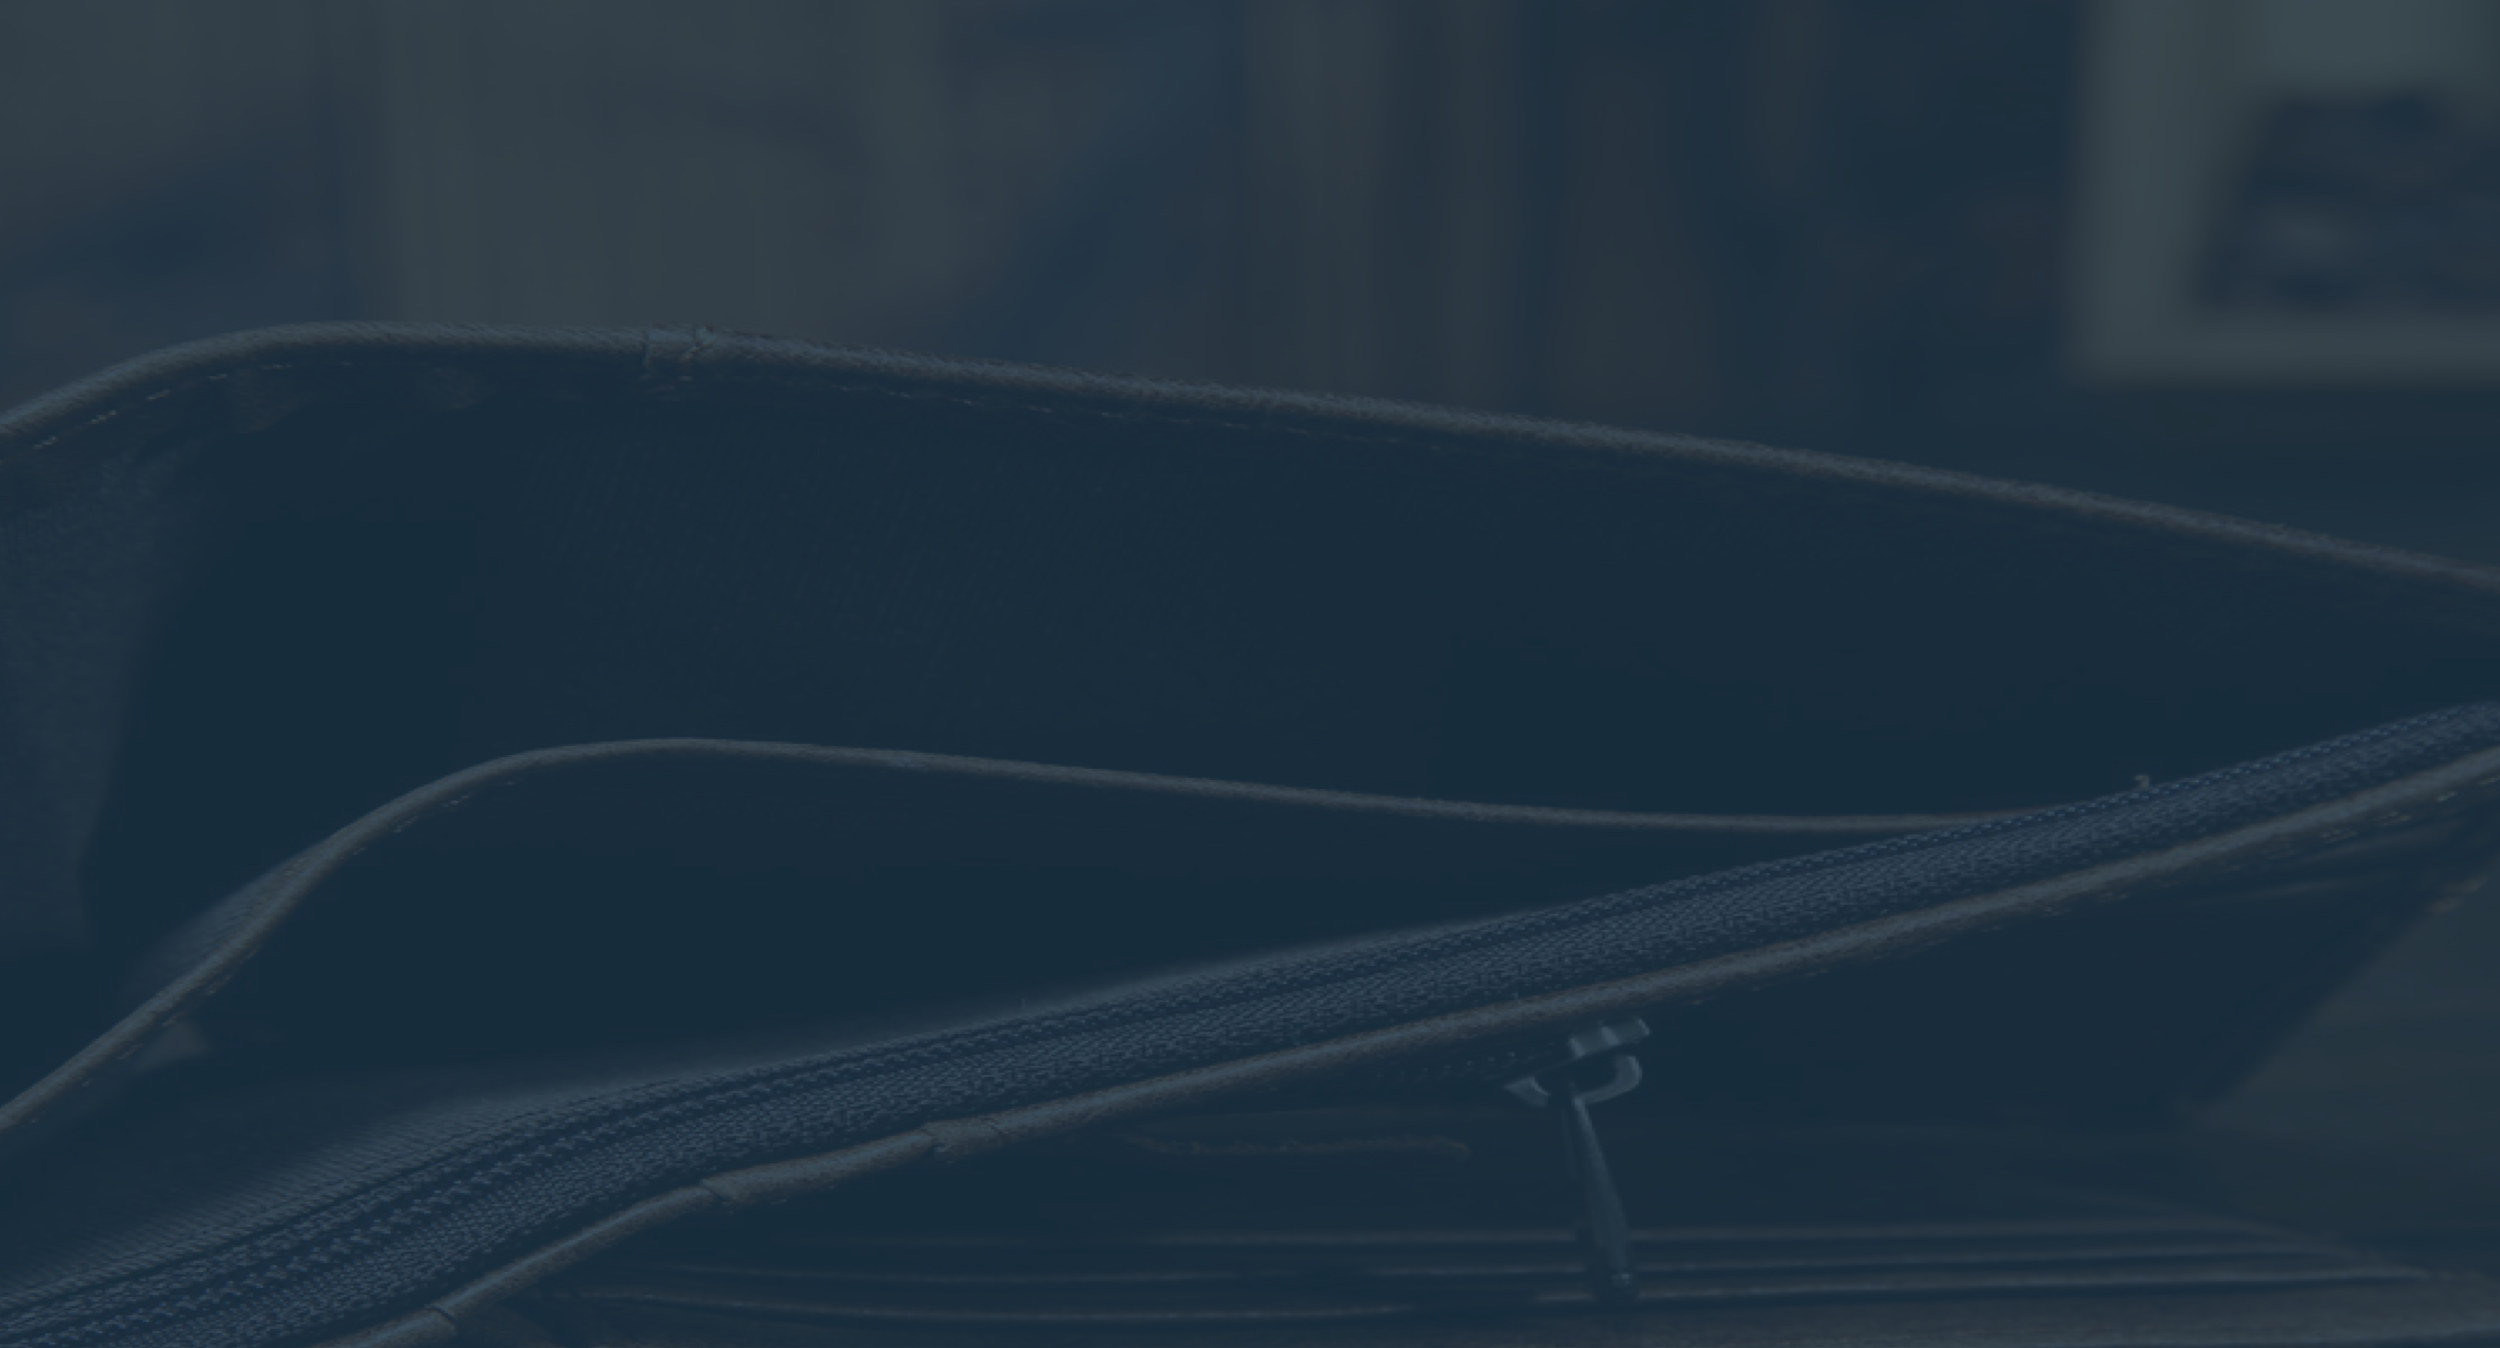
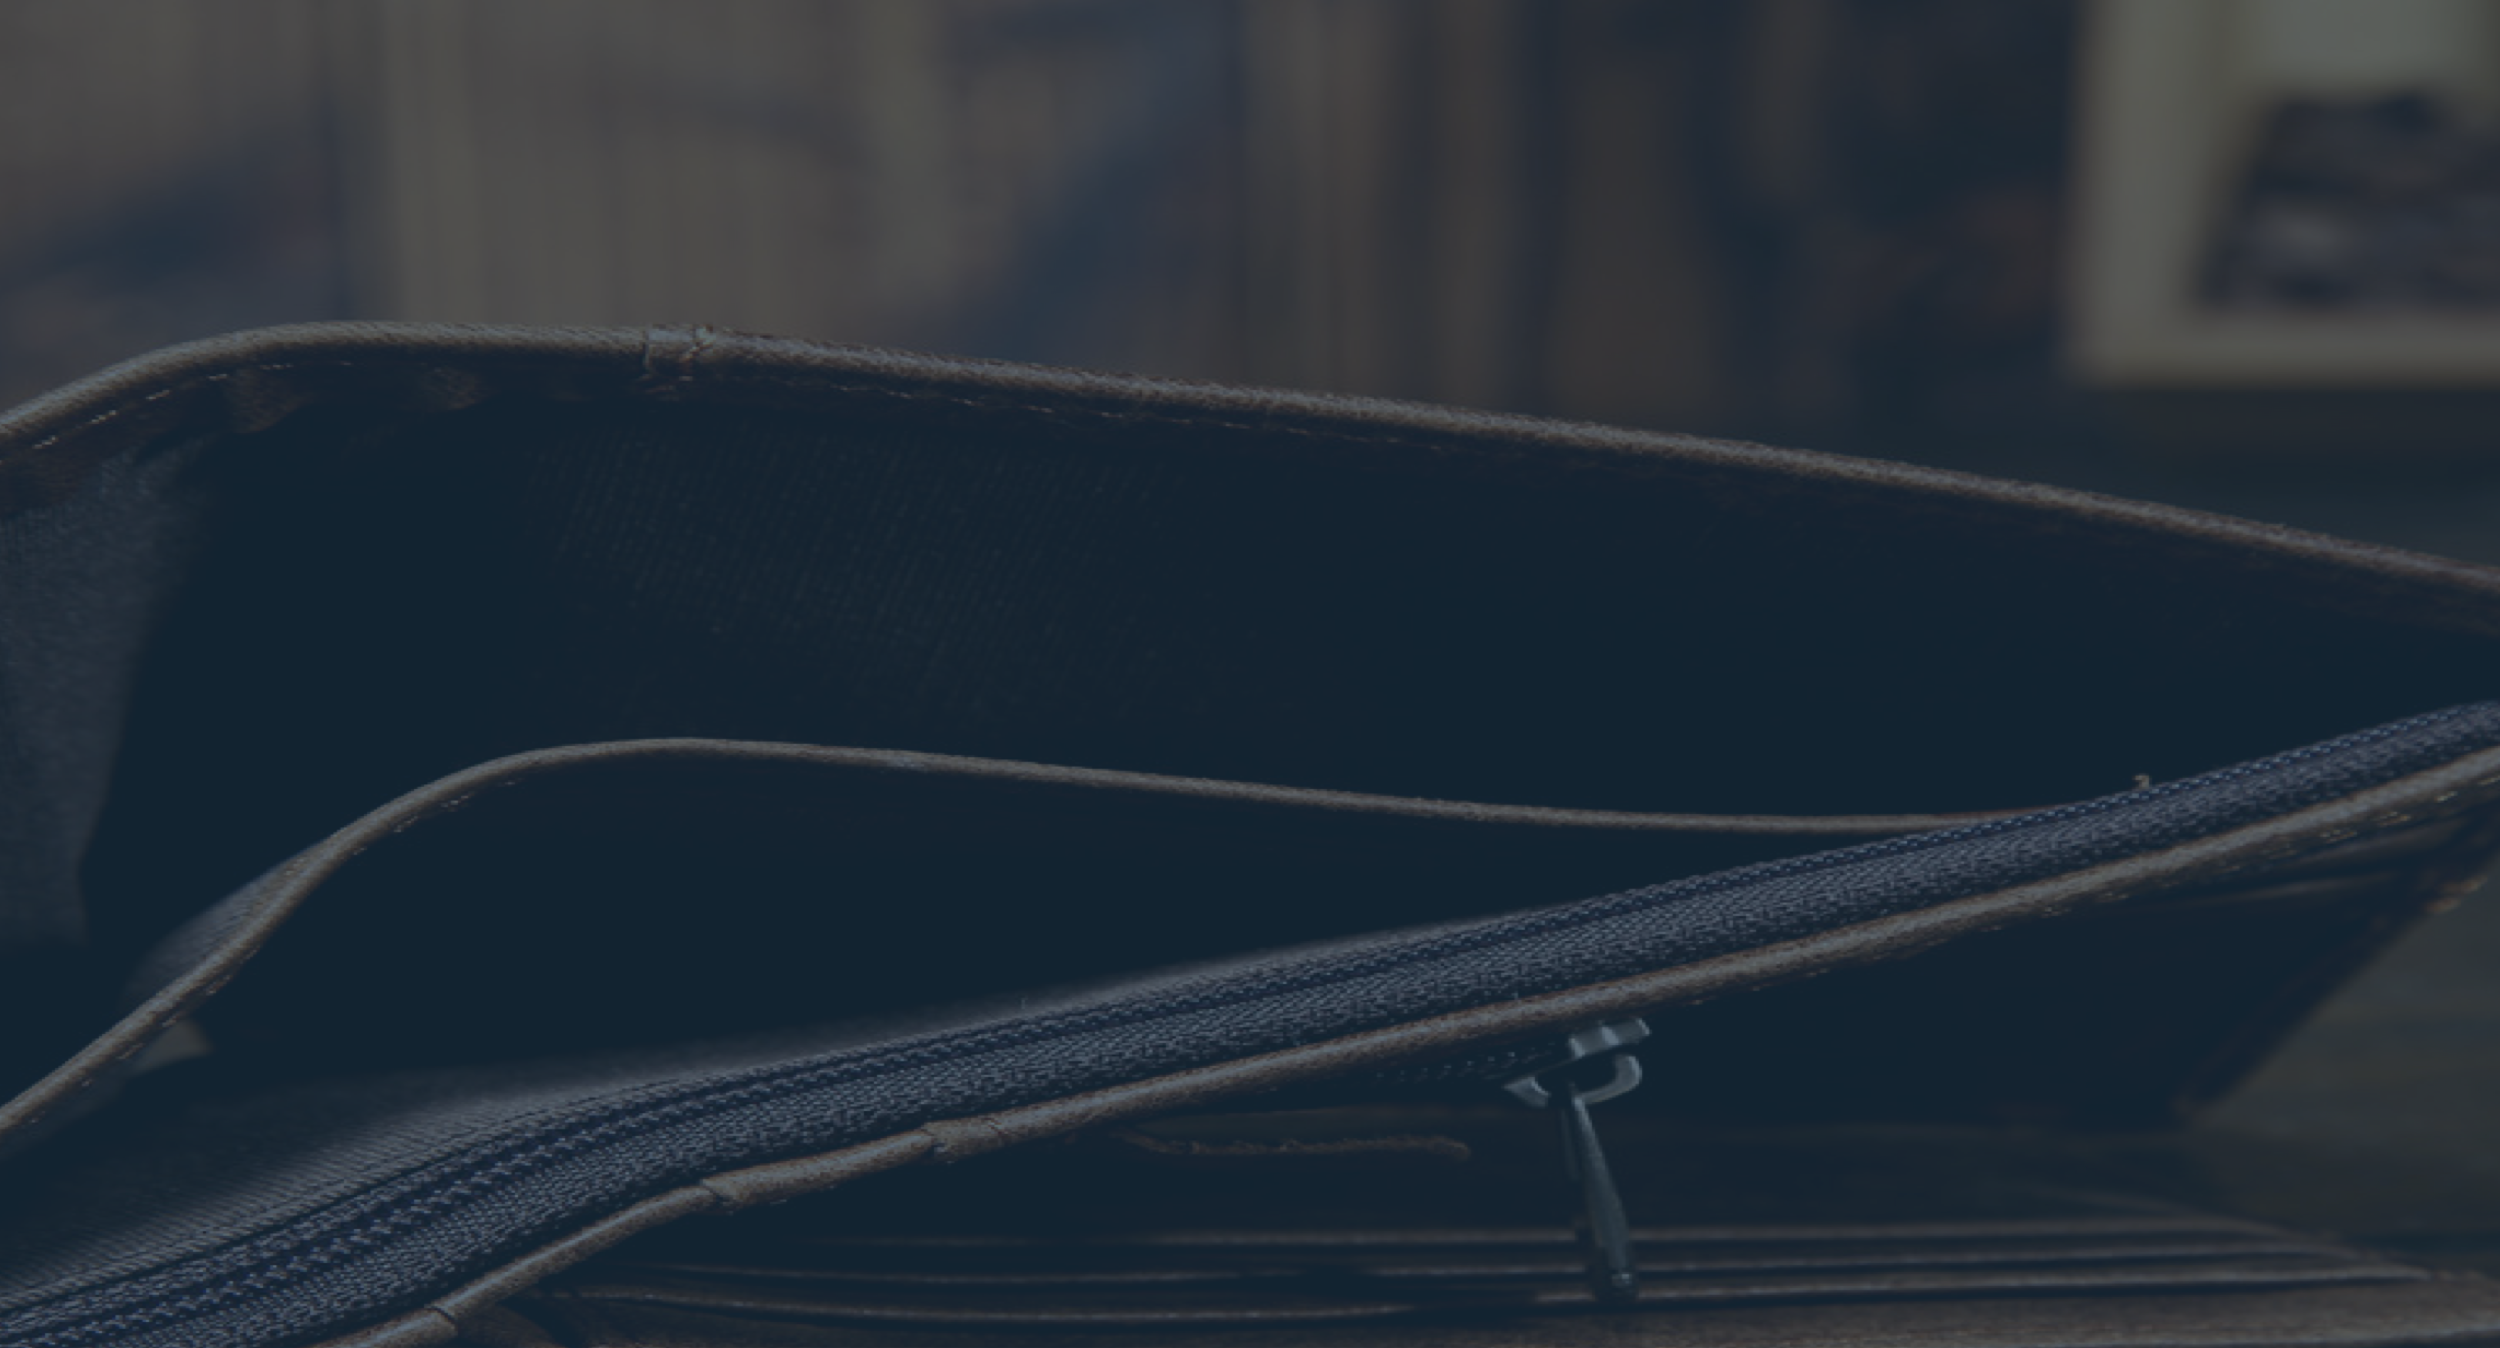
home updates
- background's project feature pic changed
- add new cat. : eductation
- new assets

diff --git a/Stylesheets/General.css b/Stylesheets/General.css
@@ -10,7 +10,7 @@
 html {
     font-family: 'Montserrat', sans-serif;
     font-weight: 400;
-    min-width: 900px;
+    min-width: 950px;
     min-height: 460px;
     color: var(--blue_dark);
 }
@@ -24,11 +24,15 @@ body, html {
 .row {
     display: flex;
     flex-direction: row;
+
+    justify-content: space-evenly;
+    align-items: center;
 }
 
 .column {
     display: flex;
     flex-direction: column;
+    align-items: center;
 }
 
 .h1 { height: 100%; }
@@ -64,6 +68,9 @@ body, html {
 .extra-bold { font-weight: 800; }
 .black { font-weight: 900; }
 
+.italic {font-style: italic; }
+.underlined { text-decoration: underline; }
+
 .tSize1 { font-size: 1rem; }
 .tSize2 { font-size: 1.2rem; }
 .tSize3 { font-size: 1.4rem; }
@@ -88,3 +95,18 @@ body, html {
 .no_margin_right { margin-right: 0; }
 
 .rounded_image { border-radius: 50%; }
+
+
+.selection_type_1 {
+    border: rgba(0,0,0,0) 1px solid;
+    cursor: pointer;
+
+    transition: border 0.5s, background-color 0.5s;
+}
+
+.selection_type_1:hover {
+    background-color: rgba(0,0,0,0.4);
+    border: var(--white) 1px solid;
+}
+
+.pre_tab { margin-left: 10px; }

diff --git a/Stylesheets/Index.css b/Stylesheets/Index.css
@@ -15,7 +15,7 @@ section a {
 
 #text_wrapper {
     text-align: center;
-    margin-bottom: 30px;
+    margin-bottom: 50px;
 }
 
 #text_wrapper p {
@@ -35,9 +35,19 @@ section a {
     letter-spacing: 0.9em;
 }
 
+#text_education {
+    top: 20%;
+    left: 15%;
+
+    color: var(--white);
+    letter-spacing: 0.9em;
+
+    text-shadow: 1px 3px 7px rgba(0,0,0,0.5);
+}
+
 #text_project {
     top: 25%;
-    right: 10%;
+    left: 60%;
 
     color: var(--white);
     text-align: end;
@@ -73,14 +83,8 @@ section a {
     align-items: center;
     justify-content: center;
     margin-left: 25%;
-
-    border: rgba(0,0,0,0) 1px solid;
-    cursor: pointer;
-
-    transition: border 0.5s, background-color 0.5s;
 }
 
-#wrapper_article:hover {
-    background-color: rgba(0,0,0,0.3);
-    border: var(--white) 1px solid;
-}
+#articles_wrapper_education {
+    bottom: 3%;
+ }

diff --git a/Web/Index.php b/Web/Index.php
@@ -74,16 +74,16 @@
                 </svg>
             </div>
             <article id="last_experience" class="w1 absolute">
-                <div id="wrapper_article" class="row w6 h1">
+                <div id="wrapper_article" class="row w6 h1 selection_type_1">
                     <img src="../Assets/Images/im2.png" alt="pic" height="80%" class="contain">
-                    <div id="text_kuantom">
+                    <aside id="text_kuantom">
                         <h1 class="semi-bold tSize2 white no_margin_top">Intern <span class="thin">as</span> Back-end developer</h1>
-                        <p class="thin white">
+                        <p class="thin white no_margin_down">
                             CTO’s assistant<br>
                             - Web developpement HTML CSS JS<br>
                             - Back and Front-end Framworks <span class="bold">…</span>
                         </p>
-                    </div>
+                    </aside>
                 </div>
             </article>
         </section>
@@ -96,6 +96,48 @@
                     Projects
                 </p>
             </div>
+        </section>
+
+        <section id="forth_section" class="column vh2 relative">
+            <a href="#" class="h1 w1 absolute"></a>
+            <img src="../Assets/Images/img4.png" alt="BG_pic" class="h1 cover">
+            <div id="text_education" class="absolute">
+                <p id="title_education" class="tSize6 no_margin bold">
+                    Education
+                </p>
+            </div>
+
+            <div id="articles_wrapper_education" class="row w3 h8 absolute">
+                <article id="ece_feature" class="w6 h3">
+                    <div id="wrapper" class="row w1 h1 selection_type_1">
+                        <img src="../Assets/Images/EceLogo.png" alt="pic" height="80%" class="contain">
+                        <aside id="text_ece">
+                            <h1 class="semi-bold tSize2 white no_margin_top">
+                                Computer<span class="thin"> and </span>Electronic
+                                <br>Engineering
+                            </h1>
+                            <p class="thin white no_margin_down">
+                                Bachelor courses<span class="italic extra-light pre_tab">2016 to 2018</span><br>
+                                Master courses<span class="italic extra-light pre_tab">2018 -</span></p>
+                        </aside>
+                    </div>
+                </article>
+
+                <article id="malmo_feature" class="w6 h3">
+                    <div id="wrapper" class="row h1 selection_type_1">
+                        <img src="../Assets/Images/MalmoLogo.png" alt="pic" height="80%" class="contain">
+                        <aside id="text_malmo">
+                            <h1 class="semi-bold tSize2 white no_margin_top">
+                                Erasmus Exchange
+                                <br><span class="thin tSize1">Sweden</span></h1>
+                            <p class="thin white no_margin_down">
+                                Bachelor courses
+                            </p>
+                        </aside>
+                    </div>
+                </article>
+            </div>
+
         </section>
     </main>
 
